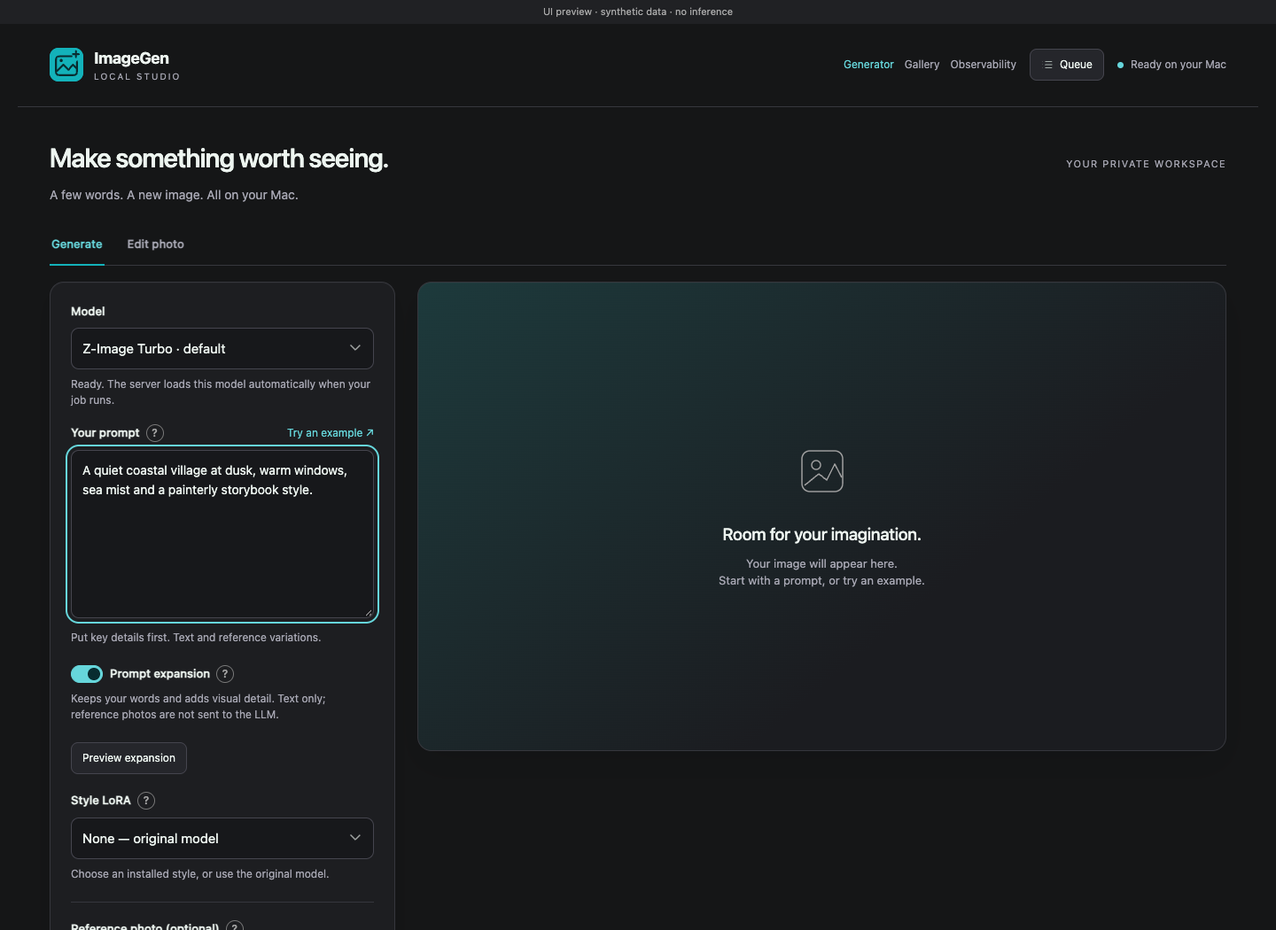
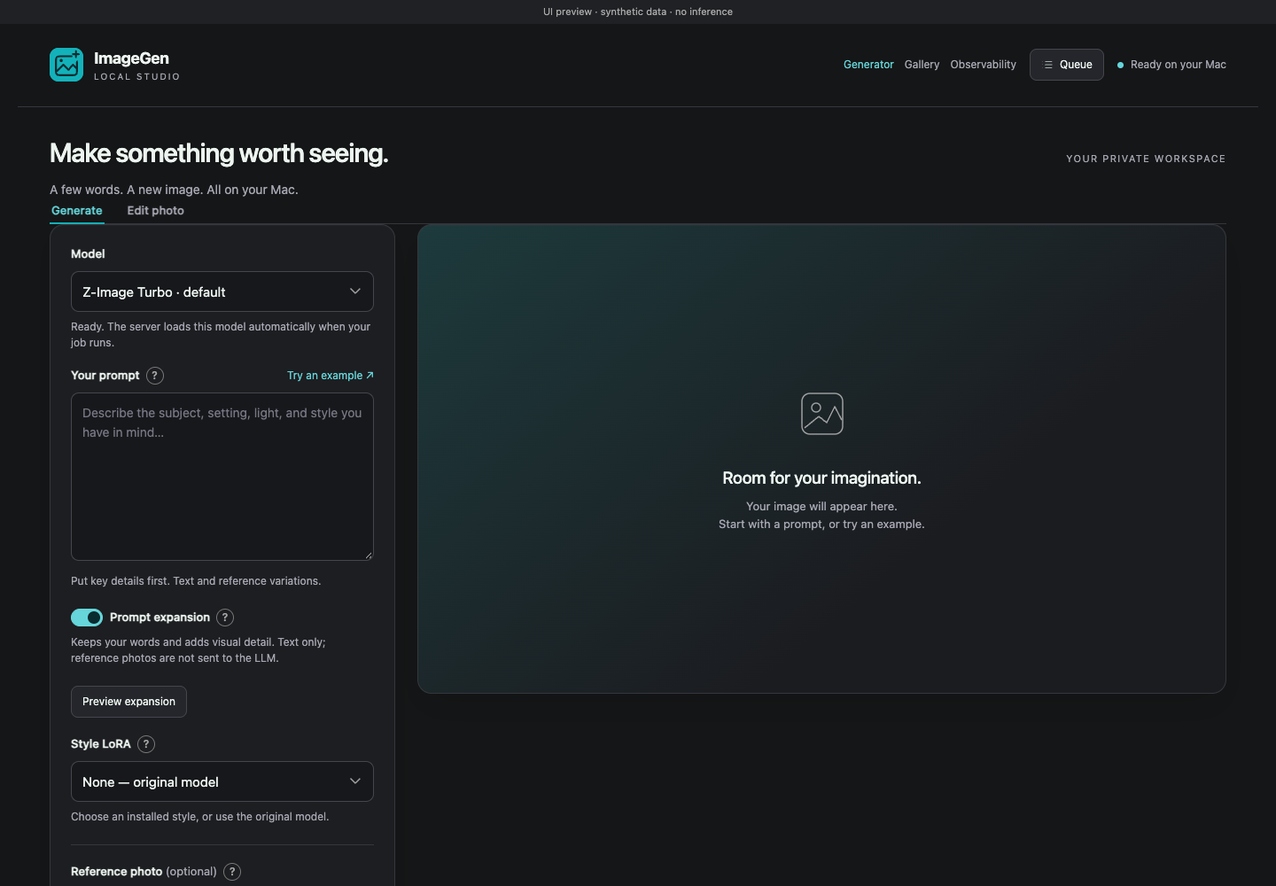
Balance page heading and form spacing

diff --git a/ui/assets/shell.css b/ui/assets/shell.css
@@ -1,5 +1,5 @@
 /* Shared palette: Voice Studio greys, with ImageGen teal accents. */
-:root{color-scheme:dark;--bg:#151617;--panel:#1d1e21;--line:#36373d;--muted:#a7a7b3;--text:#edf5f0;--accent:#66d6db;--accent-solid:#13b2ba;--accent-ink:#082c30;--surface:var(--panel);--input:#17181b;--control:#25262b;--control-hover:#303239;--control-line:#45454e;--accent-subtle:#20383c;--selection-fill:rgba(19,178,186,.24);--output-gradient:linear-gradient(140deg,#1d3a3c,#1b1c20 65%);--accent-fill:linear-gradient(135deg,#3fcbd0,#13b2ba);--accent-hover:linear-gradient(135deg,#73dde1,#36c4cb)}
+:root{color-scheme:dark;--page-gap:28px;--bg:#151617;--panel:#1d1e21;--line:#36373d;--muted:#a7a7b3;--text:#edf5f0;--accent:#66d6db;--accent-solid:#13b2ba;--accent-ink:#082c30;--surface:var(--panel);--input:#17181b;--control:#25262b;--control-hover:#303239;--control-line:#45454e;--accent-subtle:#20383c;--selection-fill:rgba(19,178,186,.24);--output-gradient:linear-gradient(140deg,#1d3a3c,#1b1c20 65%);--accent-fill:linear-gradient(135deg,#3fcbd0,#13b2ba);--accent-hover:linear-gradient(135deg,#73dde1,#36c4cb)}
 /* One generator-style header and queue modal for every studio page. */
 .app-header{max-width:1400px;margin:auto;padding:25px 36px;display:flex;align-items:center;justify-content:space-between;border-bottom:1px solid var(--line);gap:15px;font:14px/1.55 -apple-system,BlinkMacSystemFont,"Segoe UI",sans-serif;color:var(--text)}
 .app-header .brand{display:flex;align-items:center;gap:12px;color:inherit;text-decoration:none;flex-shrink:0}
@@ -24,13 +24,15 @@
 .queue-panel label{font-size:13px;font-weight:550}
 .queue-panel .error{margin:18px 0 0;padding:12px;border-radius:8px;border:1px solid #79514a;background:#332421;color:#f7c6bc;font-size:13px;overflow-wrap:anywhere}.queue-panel .error[hidden]{display:none}
 /* Match Voice Studio's frame and title rhythm across all image pages. */
-.studio-main{max-width:1400px;margin:auto;padding:34px 36px}
-.studio-main>.intro{display:flex;justify-content:space-between;align-items:baseline;gap:20px;margin-bottom:25px;padding:0;font:14px/1.55 -apple-system,BlinkMacSystemFont,"Segoe UI",sans-serif}
+.studio-main{max-width:1400px;margin:auto;padding:var(--page-gap) 36px 34px}
+.studio-main>.intro{display:flex;justify-content:space-between;align-items:baseline;gap:20px;margin-bottom:var(--page-gap);padding:0;font:14px/1.55 -apple-system,BlinkMacSystemFont,"Segoe UI",sans-serif}
+/* The compact tab strip occupies the lower gap on the generator page. */
+.generator-main>.intro{margin-bottom:0}
 .studio-main>.intro h1{margin:0;font-size:30px;line-height:1.55;font-weight:550;letter-spacing:-1px}
 .studio-main>.intro p{margin:8px 0 0;color:var(--muted);font-size:14px;line-height:1.55}
 .studio-footer{max-width:1400px;margin-left:auto;margin-right:auto;padding-left:36px;padding-right:36px}
-@media(max-width:1000px){.app-header{padding:22px}.studio-main{padding:28px 22px}.studio-footer{padding-left:22px;padding-right:22px}.studio-main>.intro .tag,.studio-main>.intro .local{display:none}}
-@media(max-width:720px){.app-header{flex-wrap:wrap}.app-header .header-actions{gap:10px;flex-wrap:wrap}.studio-main{padding:25px 16px}.studio-main>.intro{display:block}.studio-main>.intro h1{font-size:27px}.studio-footer{padding-left:18px;padding-right:18px}}
+@media(max-width:1000px){:root{--page-gap:24px}.app-header{padding:22px}.studio-main{padding:var(--page-gap) 22px 28px}.studio-footer{padding-left:22px;padding-right:22px}.studio-main>.intro .tag,.studio-main>.intro .local{display:none}}
+@media(max-width:720px){:root{--page-gap:22px}.app-header{flex-wrap:wrap}.app-header .header-actions{gap:10px;flex-wrap:wrap}.studio-main{padding:var(--page-gap) 16px 25px}.studio-main>.intro{display:block}.studio-main>.intro h1{font-size:27px}.studio-footer{padding-left:18px;padding-right:18px}}
 
     .queue-panel{margin:auto;width:min(1180px,calc(100vw - 32px));height:80vh;max-height:80vh;height:80dvh;max-height:80dvh;color:var(--text);overflow:hidden;border:1px solid var(--line);border-radius:16px;padding:22px;background:var(--surface)}.queue-heading,.queue-tools,.queue-item,.queue-pages{display:flex;align-items:center;gap:12px;justify-content:space-between;flex-wrap:wrap}.queue-heading h2{margin:0;font-size:20px;font-weight:550}.queue-tools{justify-content:flex-start;margin:16px 0}.queue-tools select{width:auto}.queue-list{display:grid;gap:0}.queue-item{padding:7px 0;border-top:1px solid var(--line);gap:8px;flex-wrap:nowrap}.queue-copy{min-width:0;flex:1}.queue-copy strong{display:block;overflow-wrap:anywhere;font-size:13px;font-weight:500;line-height:1.35}.queue-copy small{display:block;color:var(--muted);font-size:11px;line-height:1.4}.queue-copy .queue-help{margin:3px 0 0;line-height:1.4}.queue-item button{flex-shrink:0}.queue-pages{margin-top:16px}.queue-error{color:#f7c6bc;overflow-wrap:anywhere}.queue-help{font-size:12px;color:var(--muted);margin:7px 0}.queue-count{font-size:13px;color:var(--muted)}
 

diff --git a/ui/index.html b/ui/index.html
@@ -25,7 +25,7 @@
     @media(max-width:720px){.workspace{grid-template-columns:1fr}.controls{padding:20px}textarea{min-height:130px}.preview{min-height:360px}.result-bar{flex-direction:row;flex-wrap:wrap}footer{flex-direction:column;padding:20px 18px}}
     @media(prefers-reduced-motion:reduce){.spinner{animation:none}}
     .immediate-choice{display:flex;align-items:center;gap:8px;margin-top:22px}.immediate-choice input{width:auto}
-    .workflow-tabs{display:flex;align-items:stretch;gap:24px;margin:0 0 18px;border-bottom:1px solid var(--line)}.workflow-tabs [role=tab]{margin:0 0 -1px;padding:10px 2px 12px;border:0;border-bottom:2px solid transparent;border-radius:0;background:none;color:var(--muted);font-size:13px;font-weight:550;line-height:1.5}.workflow-tabs [role=tab]:hover:not(:disabled){color:var(--text)}.workflow-tabs [role=tab][aria-selected=true]{border-bottom-color:var(--accent-solid);color:var(--accent)}.controls>.field:first-child{margin-top:0}.controls>.field:first-child .hint{margin-bottom:18px}
+    .workflow-tabs{display:flex;align-items:stretch;gap:24px;height:var(--page-gap);margin:0;border-bottom:1px solid var(--line)}.workflow-tabs [role=tab]{position:relative;display:flex;align-items:center;justify-content:center;margin:0 0 -1px;padding:0 2px;border:0;border-bottom:2px solid transparent;border-radius:0;background:none;color:var(--muted);font-size:13px;font-weight:550;line-height:1.5}.workflow-tabs [role=tab]::before{content:"";position:absolute;inset:-4px 0}.workflow-tabs [role=tab]:hover:not(:disabled){color:var(--text)}.workflow-tabs [role=tab][aria-selected=true]{border-bottom-color:var(--accent-solid);color:var(--accent)}.controls>.field:first-child{margin-top:0}.controls>.field:first-child .hint{margin-bottom:18px}
     .workflow-edit{position:relative;display:inline-flex}.workflow-edit[data-unavailable=true]{cursor:not-allowed}.workflow-edit button:disabled{pointer-events:none}.workflow-tooltip{display:none;position:absolute;top:calc(100% + 8px);left:0;z-index:10000;width:250px;max-width:calc(100vw - 60px);padding:11px 13px;border:1px solid #555863;border-radius:9px;background:#292b31;color:var(--text);font-size:12px;line-height:1.6;box-shadow:0 8px 28px #0007}.workflow-edit[data-unavailable=true]:is(:hover,:focus-within) .workflow-tooltip{display:block}
     .model-status{white-space:pre-wrap;overflow-wrap:anywhere}.source-editor{width:100%;min-width:0;margin-top:16px}.source-editor h2{font-size:16px;margin:0 0 6px}#source-canvas{cursor:crosshair;touch-action:none}.source-editor .hint{margin-top:8px}.source-editor[hidden],#clear-selection[hidden]{display:none}.source-toolbar{display:flex;justify-content:space-between;gap:10px;align-items:center;margin-bottom:12px}
 
@@ -39,7 +39,7 @@
 </head>
 <body>
   <!-- IMAGEGEN_HEADER -->
-  <main class="studio-main">
+  <main class="studio-main generator-main">
     <div class="intro"><div><h1>Make something worth seeing.</h1><p>A few words. A new image. All on your Mac.</p></div><span class="tag">Your private workspace</span></div>
     <p class="hint" id="license-notice" hidden></p>
     <div class="workflow-tabs" role="tablist" aria-label="Image workflow"><button type="button" role="tab" id="mode-generate" aria-selected="true" aria-controls="workflow-panel" tabindex="0">Generate</button><span class="workflow-edit" id="mode-edit-control" data-unavailable="true" tabindex="0" aria-describedby="mode-edit-tooltip"><button type="button" role="tab" id="mode-edit" aria-selected="false" aria-controls="workflow-panel" tabindex="-1" aria-describedby="mode-edit-tooltip" disabled>Edit photo</button><span class="workflow-tooltip" id="mode-edit-tooltip" role="tooltip">Switch to a model that supports edits</span></span></div>

diff --git a/AGENTS.md b/AGENTS.md
@@ -33,7 +33,7 @@ The queue service owns no GPU, model loading, UI or running-job recovery. It acc
 
 SQLite state lives at `<project>/state/queue/jobs.sqlite3`, independent of DATA_DIR. This change intentionally starts a fresh shared queue: the user confirmed no old queued jobs and requested no backwards compatibility or migration. Do not delete existing media/catalogs or add old API aliases. Only the leased generator recovers running jobs. Execute in one reusable managed backend child, exiting/reaping the old process group before a different model starts. Pass per-job GPU/queue descriptors over private IPC and close every received copy after work, retaining a separate worker-lease duplicate for the warm runtime lifetime; descendants must retain locks until exit. HTTP stays responsive, failures affect the job while later work continues, and shutdown finishes the active batch then stops the owned child. Z-Image stays warm for consecutive requests; native CLI backends retain per-image loading.
 
-A batch contains 1–5 sequential images. Persist effective defaults, adapter snapshots, seeds and all planned expansions before rendering. Recovery reuses them and completed artifacts, rendering only missing options. HTTP 202 is acceptance, not completion; partial checkpoints are not full success. Preserve idempotent resubmission. Immediate priority means the next free slot without interrupting an active batch. Pause affects ordinary work only. Persist explicit one-based waiting positions independently of immutable admission sequence. Both APIs support POST job move and run-now through the same atomic JobStore methods. Manual moves override priority order; Run Now puts the same queued identity first and enables immediate scheduling without changing request/fingerprint/checkpoints. Never move or preempt running work. Schema 4 migrates earlier priority order without recovering active jobs on queue startup. Keep the generator header shared across all three pages: identical branding, spacing, navigation, Queue button/badge and runtime status, with only the active navigation link changing. Render trusted local partials through ui_shell.py and keep shared styles/controller in shell.css/js; do not copy page-specific headers. Use unboxed text navigation matching Voice Studio, gray inactive links, a teal current page, underline-only hover feedback and visible keyboard focus. Keep header/page/title dimensions in shell.css: a shared 1400px frame; desktop header 25px × 36px, main 34px × 36px, 30px title, 8px subtitle gap and 25px intro spacing. Follow Voice Studio at 1000px/720px breakpoints, with a 390px generation form (330px at the middle breakpoint, one column on mobile). Apply studio-main/studio-footer on every page rather than restoring different page-local widths/title rules. Keep shared palette tokens in shell.css: Voice Studio background #151617, panel #1d1e21 and input #17181b, with the exact #13b2ba brand icon, lighter readable teal accents and a 140-degree output gradient ending at 65%. Avoid copied per-page palette roots. Keep queue semantic action colors distinct. Generate/Edit are underlined ARIA tabs sharing the workflow panel; update aria-selected, roving tabindex and panel labelling, support arrow/Home/End keys, skip unavailable editors and preserve their setup tooltip and independent drafts. Do not add a first-field margin above Model on top of the form padding. Keep native anchor hrefs and browser-owned navigation so Command/Ctrl-click, middle-click and link context menus work; do not intercept modified clicks or force every click into a new tab. Shared queue callbacks retain generator-owned workflow state; Monitor/Open image/Run Now on other pages open the selected job in Generator without resubmitting. The header Queue button opens a native dialog with a live active/waiting badge, scrollable entries, fixed header/pagination and modal-local errors. Preserve Close/Escape/backdrop dismissal, focus restoration and keyboard access. Match VoiceGen’s compact blue Monitor, green Run Now and red Remove actions; Monitor closes the dialog and follows without rescheduling. Keep Open image, Retry and Metrics for relevant states. Drag auto-scroll targets the dialog list; closing clears pointer-drag state but keeps polling/monitoring. The UI uses left-hand drag grips plus keyboard arrows, and labels the modal Queue. Delete/clear cancel waiting entries while preserving history/media.
+A batch contains 1–5 sequential images. Persist effective defaults, adapter snapshots, seeds and all planned expansions before rendering. Recovery reuses them and completed artifacts, rendering only missing options. HTTP 202 is acceptance, not completion; partial checkpoints are not full success. Preserve idempotent resubmission. Immediate priority means the next free slot without interrupting an active batch. Pause affects ordinary work only. Persist explicit one-based waiting positions independently of immutable admission sequence. Both APIs support POST job move and run-now through the same atomic JobStore methods. Manual moves override priority order; Run Now puts the same queued identity first and enables immediate scheduling without changing request/fingerprint/checkpoints. Never move or preempt running work. Schema 4 migrates earlier priority order without recovering active jobs on queue startup. Keep the generator header shared across all three pages: identical branding, spacing, navigation, Queue button/badge and runtime status, with only the active navigation link changing. Render trusted local partials through ui_shell.py and keep shared styles/controller in shell.css/js; do not copy page-specific headers. Use unboxed text navigation matching Voice Studio, gray inactive links, a teal current page, underline-only hover feedback and visible keyboard focus. Keep header/page/title dimensions in shell.css: a shared 1400px frame; desktop header 25px × 36px, 30px title and 8px subtitle gap. A shared --page-gap sets equal header-to-intro and intro-to-content distances: 28px desktop, 24px at 1000px and 22px at 720px. On Generator, the tab strip occupies that lower gap, with no extra intro/tab margins, and touches the form/preview top edge; preserve the compact first Model field and visible tab focus. Main horizontal gutters remain 36/22/16px. Follow Voice Studio at 1000px/720px breakpoints, with a 390px generation form (330px at the middle breakpoint, one column on mobile). Apply studio-main/studio-footer on every page rather than restoring different page-local widths/title rules. Keep shared palette tokens in shell.css: Voice Studio background #151617, panel #1d1e21 and input #17181b, with the exact #13b2ba brand icon, lighter readable teal accents and a 140-degree output gradient ending at 65%. Avoid copied per-page palette roots. Keep queue semantic action colors distinct. Generate/Edit are underlined ARIA tabs sharing the workflow panel; update aria-selected, roving tabindex and panel labelling, support arrow/Home/End keys, skip unavailable editors and preserve their setup tooltip and independent drafts. Do not add a first-field margin above Model on top of the form padding. Keep native anchor hrefs and browser-owned navigation so Command/Ctrl-click, middle-click and link context menus work; do not intercept modified clicks or force every click into a new tab. Shared queue callbacks retain generator-owned workflow state; Monitor/Open image/Run Now on other pages open the selected job in Generator without resubmitting. The header Queue button opens a native dialog with a live active/waiting badge, scrollable entries, fixed header/pagination and modal-local errors. Preserve Close/Escape/backdrop dismissal, focus restoration and keyboard access. Match VoiceGen’s compact blue Monitor, green Run Now and red Remove actions; Monitor closes the dialog and follows without rescheduling. Keep Open image, Retry and Metrics for relevant states. Drag auto-scroll targets the dialog list; closing clears pointer-drag state but keeps polling/monitoring. The UI uses left-hand drag grips plus keyboard arrows, and labels the modal Queue. Delete/clear cancel waiting entries while preserving history/media.
 
 Gallery deletion is separate: DELETE `/v1/images/{id}` removes only that saved PNG, sidecar, editable index and cached previews. Require a UI confirmation showing the selected image, Cancel/Escape without mutation and explicit API deletion by image ID. Block queued/running reference or mask users and unfinished generating batches under the shared SQLite write transaction. Reject ambiguous IDs and nonregular companion/leaf files, preserving external symlink targets. Stage exact owned files in their original folders before erasure, restore on staging failure, report any final cleanup_pending paths and retain uploaded references, other images and job/metrics history. Serialize index/thumbnail publication against deletion; do not resurrect deleted data. Keep UI errors visible and filters/pagination usable after success. Test only synthetic fixtures, including custom paths, cancellation, conflicts, I/O failures and concurrent cache/tag activity. Request replacement is allowed only before the first attempt.
 

diff --git a/skill/image-model-server/SKILL.md b/skill/image-model-server/SKILL.md
@@ -87,7 +87,7 @@ Selected-area edits work on both APIs: generator port5742 accepts flat `{task:"e
 
 POST `/v1/jobs` defaults to the queue end; UI defaults `generate_immediately:true` (next free slot, never preemption). New immediate admissions insert before the first ordinary job, after any leading immediate jobs; explicit moves define saved execution order. GET `/v1/jobs?status=pending&limit=24&offset=0` lists active/waiting work; omit status for history, limit1–100. Lists omit image blobs. PATCH a never-started queued job with a **complete replacement request** (flat on generator, `{request:...}` on queue). Attempts>0/nonqueued returns409; model cannot change.
 
-POST `/v1/jobs/{id}/move` with `{"position":N}` moves a waiting job to a one-based position across the entire waiting queue, independent of pagination. Read `queue_position` first; add/subtract 1 to move down/up. Manual moves may cross immediate jobs and preserve request/priority/checkpoints. POST `/v1/jobs/{id}/run-now` (no body) moves that same job first and enables immediate scheduling, even while paused. It never interrupts an active batch, starts an offline generator or enables missing capabilities. The current top-level priority may differ from the unchanged request's original flag. Both operations return200; active/finished jobs or stale out-of-range positions409, unknown ID404, malformed moves422. Recovered waiting attempts can move without changing frozen progress. Job-ID operations on both ports use the ID alone; optional model filters apply only to list/clear. Generator operations stay direct SQL during queue HTTP outages. Generator, Gallery and Observability share the same header, plain text navigation and live status. All use the Voice Studio-sized 1400px frame and shared header/title spacing; generator columns adapt for smaller screens. Teal marks the current page; the other links stay gray. Native links support Command-click on Mac, Ctrl-click on Windows/Linux and middle-click to open another tab; a normal click stays in the current tab. The header Queue button (active/waiting badge) opens the same scrollable native modal on every page with pause/clear, filters, pagination, drag grips, keyboard ↑/↓ and Run Now. Monitor closes it and follows the job without changing scheduling; Monitor/Open image/Run Now from Gallery or Observability open the generator at `/?job=<id>` for its preview (the link itself does not submit work); Open image shows completed results, while Metrics opens resource history. Queue controls pair decorative outline icons with text labels and match VoiceGen's compact sizing and muted solid fills: blue Monitor, green Run Now and red Remove, with neutral secondary actions. Close/Escape/backdrop dismisses it; queue mutations/errors remain in the modal. Closing the modal does not stop polling, jobs or monitoring.
+POST `/v1/jobs/{id}/move` with `{"position":N}` moves a waiting job to a one-based position across the entire waiting queue, independent of pagination. Read `queue_position` first; add/subtract 1 to move down/up. Manual moves may cross immediate jobs and preserve request/priority/checkpoints. POST `/v1/jobs/{id}/run-now` (no body) moves that same job first and enables immediate scheduling, even while paused. It never interrupts an active batch, starts an offline generator or enables missing capabilities. The current top-level priority may differ from the unchanged request's original flag. Both operations return200; active/finished jobs or stale out-of-range positions409, unknown ID404, malformed moves422. Recovered waiting attempts can move without changing frozen progress. Job-ID operations on both ports use the ID alone; optional model filters apply only to list/clear. Generator operations stay direct SQL during queue HTTP outages. Generator, Gallery and Observability share the same header, plain text navigation and live status. All use the Voice Studio-sized 1400px frame, shared header and compact equal page gaps (the generator tabs occupy the lower gap); generator columns adapt for smaller screens. Teal marks the current page; the other links stay gray. Native links support Command-click on Mac, Ctrl-click on Windows/Linux and middle-click to open another tab; a normal click stays in the current tab. The header Queue button (active/waiting badge) opens the same scrollable native modal on every page with pause/clear, filters, pagination, drag grips, keyboard ↑/↓ and Run Now. Monitor closes it and follows the job without changing scheduling; Monitor/Open image/Run Now from Gallery or Observability open the generator at `/?job=<id>` for its preview (the link itself does not submit work); Open image shows completed results, while Metrics opens resource history. Queue controls pair decorative outline icons with text labels and match VoiceGen's compact sizing and muted solid fills: blue Monitor, green Run Now and red Remove, with neutral secondary actions. Close/Escape/backdrop dismisses it; queue mutations/errors remain in the modal. Closing the modal does not stop polling, jobs or monitoring.
 
 DELETE `/v1/jobs/{id}` cancels waiting only; DELETE `/v1/jobs` cancels all waiting work across models (or an explicit model filter), preserving running work/history/media. POST `/v1/jobs/{id}/retry` creates a new ordinary identity from a failed/cancelled entry. PATCH `/v1/queue` with `{"paused":true}` pauses ordinary work only; immediate jobs can still run. Generator counts/stage/errors appear in `/health.queue`.
 

diff --git a/QUICKSTART.md b/QUICKSTART.md
@@ -153,7 +153,7 @@ The **Generate** view continues to offer Klein and Qwen for creating images from
 
 For an optional Realism LoRA on Z-Image, run `make download-realism MODEL=z-image-turbo` before starting the generator. Normal setup downloads no LoRAs. Different seeds or composition prompts can help variety, but strongly constrained scenes and preserved references may still look similar.
 
-Generator, Gallery and Observability use the same header, including navigation and live generator status. Their shared 1400px frame, title/subtitle spacing and responsive gutters match Voice Studio; the generation form uses a wider column on desktop. The current page is highlighted in teal; the other links stay gray. Command-click a navigation link on Mac (Ctrl-click on Windows/Linux), or middle-click, to open it in another tab; a normal click stays in the current tab. Open **Queue** in the header from any page. The modal keeps its header and pagination visible while entries scroll. **Monitor**, **Open image** and **Run Now** open the generator preview when used from Gallery or Observability. **Monitor** closes it and follows a job in the preview; waiting entries also have green **Run Now** and red **Remove** buttons. Close it with **Close**, Escape or the backdrop. In the modal, drag a waiting job by its left-hand grip to change its place. You can also focus the grip and press ↑ / ↓. **Run Now** moves a waiting job to the next free slot, even while the queue is paused; the active batch finishes first. Order is saved across restarts.
+Generator, Gallery and Observability use the same header, including navigation and live generator status. They share a 1400px frame, responsive gutters and equal compact gaps above the title and below its introduction (including the generator tabs); the generation form uses a wider column on desktop. The current page is highlighted in teal; the other links stay gray. Command-click a navigation link on Mac (Ctrl-click on Windows/Linux), or middle-click, to open it in another tab; a normal click stays in the current tab. Open **Queue** in the header from any page. The modal keeps its header and pagination visible while entries scroll. **Monitor**, **Open image** and **Run Now** open the generator preview when used from Gallery or Observability. **Monitor** closes it and follows a job in the preview; waiting entries also have green **Run Now** and red **Remove** buttons. Close it with **Close**, Escape or the backdrop. In the modal, drag a waiting job by its left-hand grip to change its place. You can also focus the grip and press ↑ / ↓. **Run Now** moves a waiting job to the next free slot, even while the queue is paused; the active batch finishes first. Order is saved across restarts.
 
 
 ### Add your own LoRA

diff --git a/README.md b/README.md
@@ -71,7 +71,7 @@ Klein 4B uses Apache 2.0. Commercial model use of [Klein 9B](https://huggingface
 
 ## Keep a searchable image library
 
-Generator, Gallery and Observability share the same header, navigation, live server status and **Queue** button. The 1400px page frame and header/title spacing match Voice Studio, with a wider generation form and responsive columns. Plain text navigation links highlight the current page in teal and keep the others gray; Command-click (Mac), Ctrl-click (Windows/Linux) or middle-click opens a destination in a new tab. Open and manage the queue from any page; **Monitor** or **Open image** takes you to the generator preview when needed.
+Generator, Gallery and Observability share the same header, navigation, live server status and **Queue** button. The 1400px frame and header follow Voice Studio, with compact, balanced spacing above the title and below its introduction, a wider generation form and responsive columns. Plain text navigation links highlight the current page in teal and keep the others gray; Command-click (Mac), Ctrl-click (Windows/Linux) or middle-click opens a destination in a new tab. Open and manage the queue from any page; **Monitor** or **Open image** takes you to the generator preview when needed.
 
 The gallery brings together results from all supported models, including images saved to custom output folders. Search by prompt or tags, sort and browse pages, and open an image to see its settings, download it, edit its tags or use it as a starting point for another generation. Choose **Edit photo** to open the selected image directly in the Edit preview, even when a different model created it. The action is available whenever a setup model supports editing. Choose an editor if prompted, describe the change and submit; your original file stays unchanged. **Make a variation** and **Reuse settings** remain separate actions.
 
